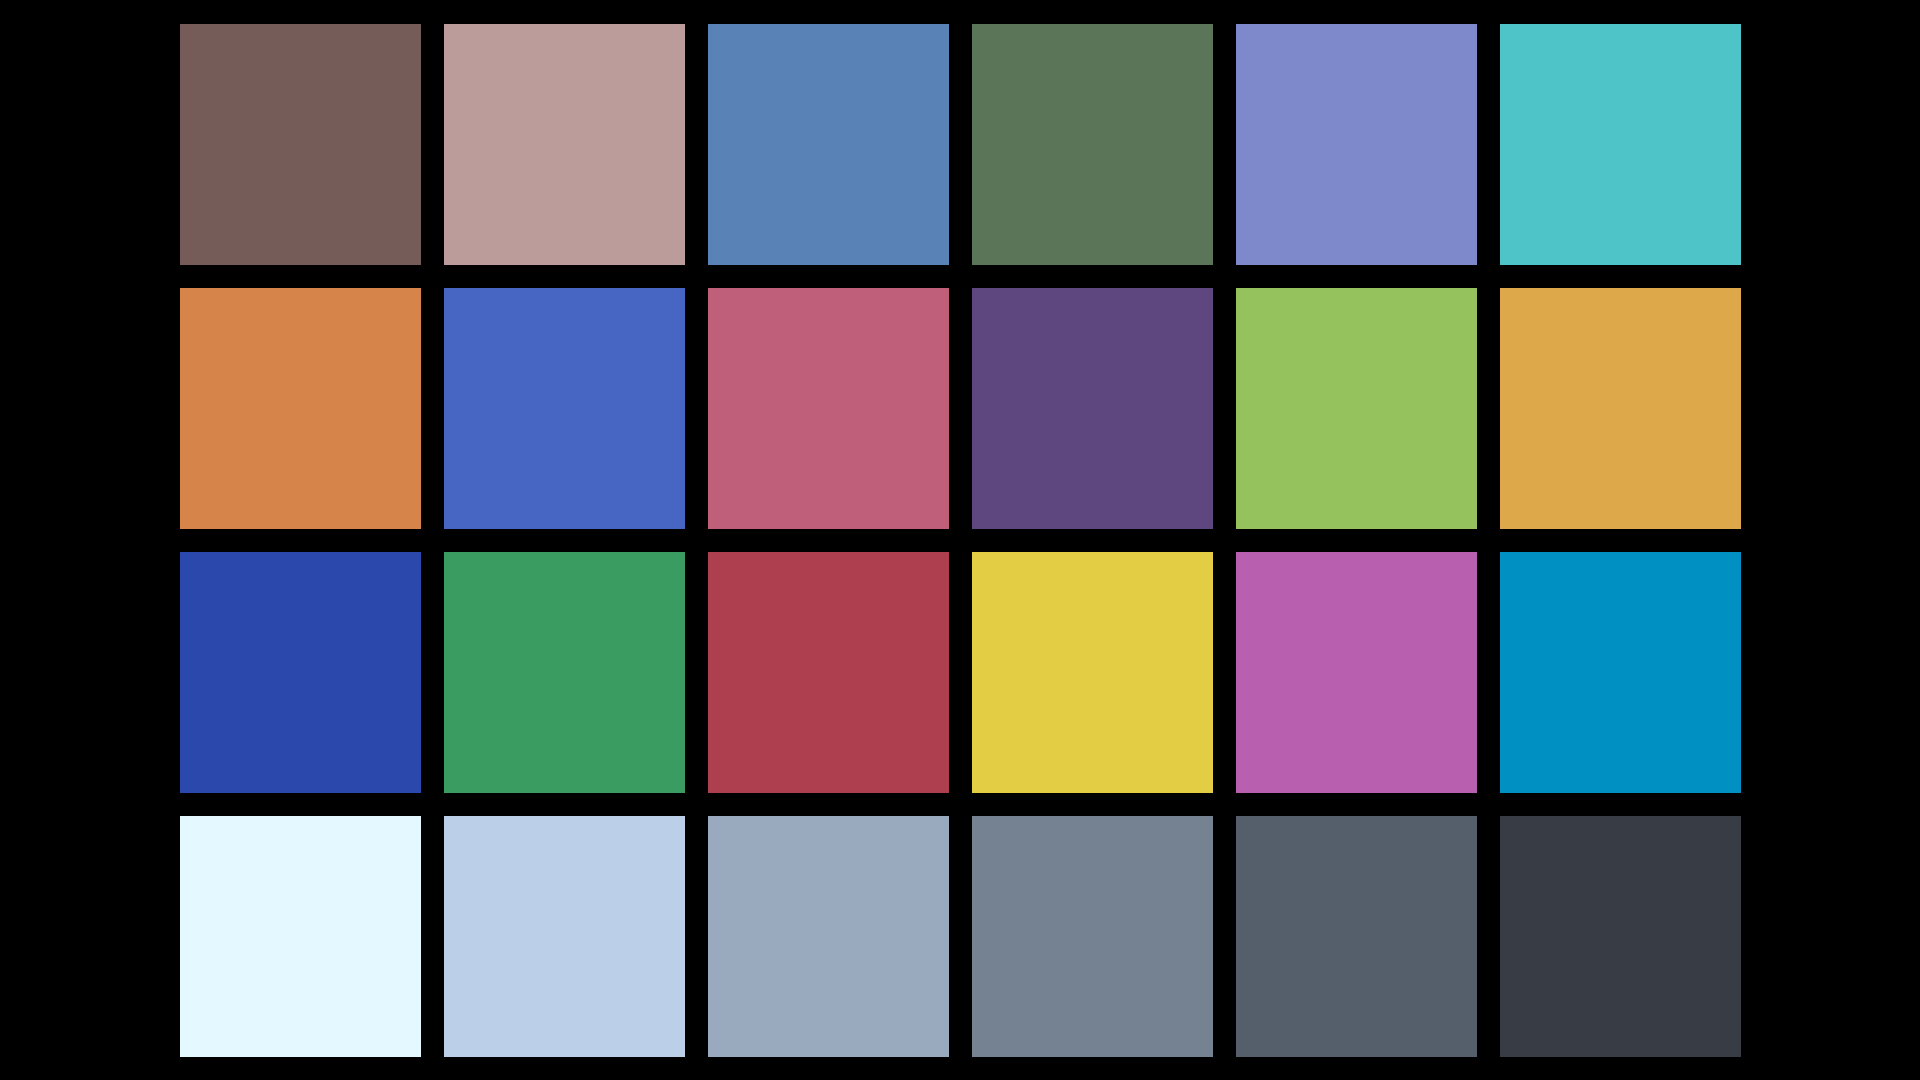
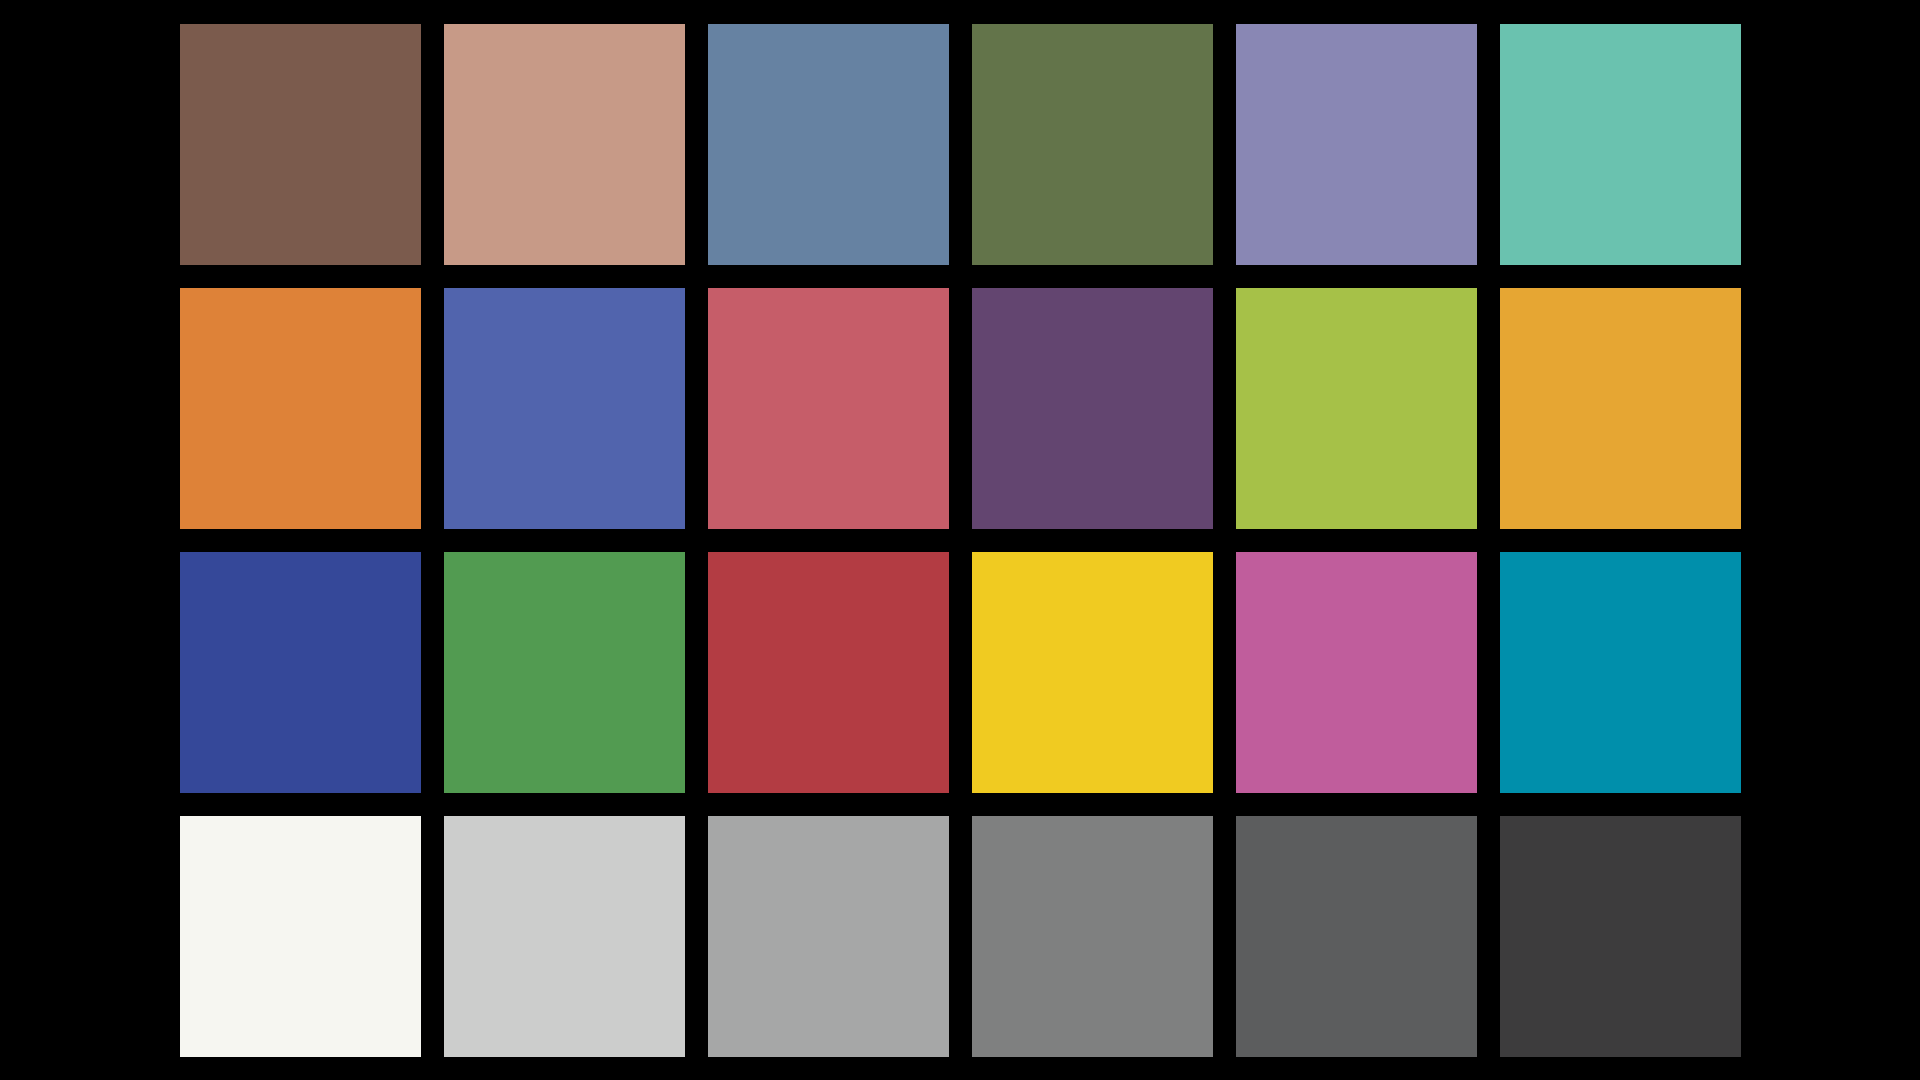
#191 implemented `calc_rgb_to_xyz_matrix_from_spectral_distribution`

Changed region(s): [[0.2188, 0.7333, 0.375, 0.9778], [0.5, 0.4889, 0.6562, 0.7333], [0.7812, 0.0, 0.9062, 0.2444]]

diff --git a/2022/07_observer_metamerism/display_characteristics.py b/2022/07_observer_metamerism/display_characteristics.py
@@ -9,9 +9,10 @@ import os
 import numpy as np
 from colour.continuous import MultiSignals
 from colour import MultiSpectralDistributions, SpectralShape, MSDS_CMFS,\
-    SDS_ILLUMINANTS, sd_to_XYZ, XYZ_to_xyY
+    SDS_ILLUMINANTS, sd_to_XYZ, XYZ_to_xyY, XYZ_to_xy
 from colour.io import write_image
 from colour.utilities import tstack
+from scipy import linalg
 
 # import my libraries
 import font_control2 as fc2
@@ -223,11 +224,10 @@ def prepare_display_spd(
     return sds
 
 
-def interpolate_festival(
+def trim_and_interpolate_in_advance(
         spd, cmfs, illuminant, spectral_shape=SpectralShape(380, 780, 1)):
     spd2 = spd.interpolate(shape=spectral_shape)
     cmfs2 = cmfs.trim(spectral_shape)
-    print(illuminant.values.shape)
     illuminant2 = illuminant.interpolate(shape=spectral_shape)
 
     return spd2, cmfs2, illuminant2
@@ -238,7 +238,7 @@ def calc_display_white_point(
         spectral_shape=SpectralShape(380, 780, 1),
         cmfs=CIE1931_CMFS, illuminant=ILLUMINANT_E):
     spd = prepare_display_spd(fname=display_spd_data_fname)
-    spd, cmfs, illuminant = interpolate_festival(
+    spd, cmfs, illuminant = trim_and_interpolate_in_advance(
         spd=spd, cmfs=cmfs, illuminant=illuminant,
         spectral_shape=spectral_shape)
     rgbw_large_xyz = sd_to_XYZ(
@@ -251,6 +251,58 @@ def calc_display_white_point(
     print(primaries)
     print(white)
     plot_chromaticity_diagram(primaries, white)
+
+
+def calc_rgb_to_xyz_matrix_from_spectral_distribution(spd):
+    """
+    Calculate RGB to XYZ matrix from spectral distribution of the display.
+
+    Parameters
+    ----------
+    spd : MultiSpectralDistributions
+        spectral distribution of the display.
+        shape is `SpectralShape(380, 780, 1)`
+    """
+    spectral_shape = SpectralShape(380, 780, 1)
+    cmfs = CIE1931_CMFS
+    illuminant = ILLUMINANT_E
+    spd, cmfs, illuminant = trim_and_interpolate_in_advance(
+        spd=spd, cmfs=cmfs, illuminant=illuminant,
+        spectral_shape=spectral_shape)
+    rgbw_large_xyz = sd_to_XYZ(
+        sd=spd, cmfs=cmfs, illuminant=illuminant)
+
+    # calc RGB to XYZ matrix
+    rgbw_large_xyz_sum = np.sum(rgbw_large_xyz, -1).reshape(4, 1)
+    rgbw_small_xyz = (rgbw_large_xyz / rgbw_large_xyz_sum)
+
+    xyz_mtx = rgbw_small_xyz[:3].T
+    xyz_mtx_inv = linalg.inv(xyz_mtx)
+
+    w_large_xyz = rgbw_large_xyz[3]
+    w_large_xyz = w_large_xyz / w_large_xyz[1]
+
+    t_rgb = np.dot(xyz_mtx_inv, w_large_xyz)
+
+    t_mtx = np.array(
+        [[t_rgb[0], 0, 0], [0, t_rgb[1], 0], [0, 0, t_rgb[2]]])
+    rgb_to_xyz_mtx = np.dot(xyz_mtx, t_mtx)
+
+    return rgb_to_xyz_mtx
+
+
+def calc_xyz_to_rgb_matrix_from_spectral_distribution(spd):
+    """
+    Calculate XYZ to RGB matrix from spectral distribution of the display.
+
+    Parameters
+    ----------
+    spd : MultiSpectralDistributions
+        spectral distribution of the display.
+        shape is `SpectralShape(380, 780, 1)`
+    """
+    rgb_to_xyz_mtx = calc_rgb_to_xyz_matrix_from_spectral_distribution(spd)
+    return linalg.inv(rgb_to_xyz_mtx)
 
 
 def plot_chromaticity_diagram(
@@ -320,8 +372,11 @@ if __name__ == '__main__':
     # plot_b_display_spectral_distribution()
     # plot_sun_glass_sd()
     # modify_b_display_spd()
-    calc_display_white_point(
-        display_spd_data_fname="./ref_data/ref_display_spd.csv",
-        spectral_shape=SpectralShape(380, 780, 1),
-        cmfs=CIE1931_CMFS)
+    # calc_display_white_point(
+    #     display_spd_data_fname="./ref_data/ref_display_spd.csv",
+    #     spectral_shape=SpectralShape(380, 780, 1),
+    #     cmfs=CIE1931_CMFS)
+    display_spd_data_fname = "./ref_data/ref_display_spd.csv"
+    spd = prepare_display_spd(fname=display_spd_data_fname)
+    calc_rgb_to_xyz_matrix_from_spectral_distribution(spd)
     pass

diff --git a/2022/07_observer_metamerism/observer_metamerism.py b/2022/07_observer_metamerism/observer_metamerism.py
@@ -59,7 +59,6 @@ def sample_calc_sd_to_XYZ(spectral_shape=DEFAULT_SPECTRAL_SHAPE):
     illuminant = SDS_ILLUMINANTS['D65']
     illuminant = illuminant.interpolate(spectral_shape)
     # print(illuminant)
-    print(color_checker_sds.values.shape, cmfs.values.shape, illuminant.values.shape)
     XYZ = sd_to_XYZ(sd=color_checker_sds, cmfs=cmfs, illuminant=illuminant)
     # xyY = XYZ_to_xyY(XYZ)
 
@@ -72,7 +71,7 @@ def load_color_checker_sr():
         spectral_shape=SpectralShape(380, 730, 1))
     rgb = cs.large_xyz_to_rgb(
         xyz=large_xyz, color_space_name=cs.BT709,
-        xyz_white=cs.D50, rgb_white=cs.D65)
+        xyz_white=cs.D65, rgb_white=cs.D65)
     rgb = np.clip(rgb/100, 0.0, 1.0) ** (1/2.4)
     img = tpg.plot_color_checker_image(rgb=rgb)
     tpg.img_wirte_float_as_16bit_int("./figure/color_checker.png", img)
